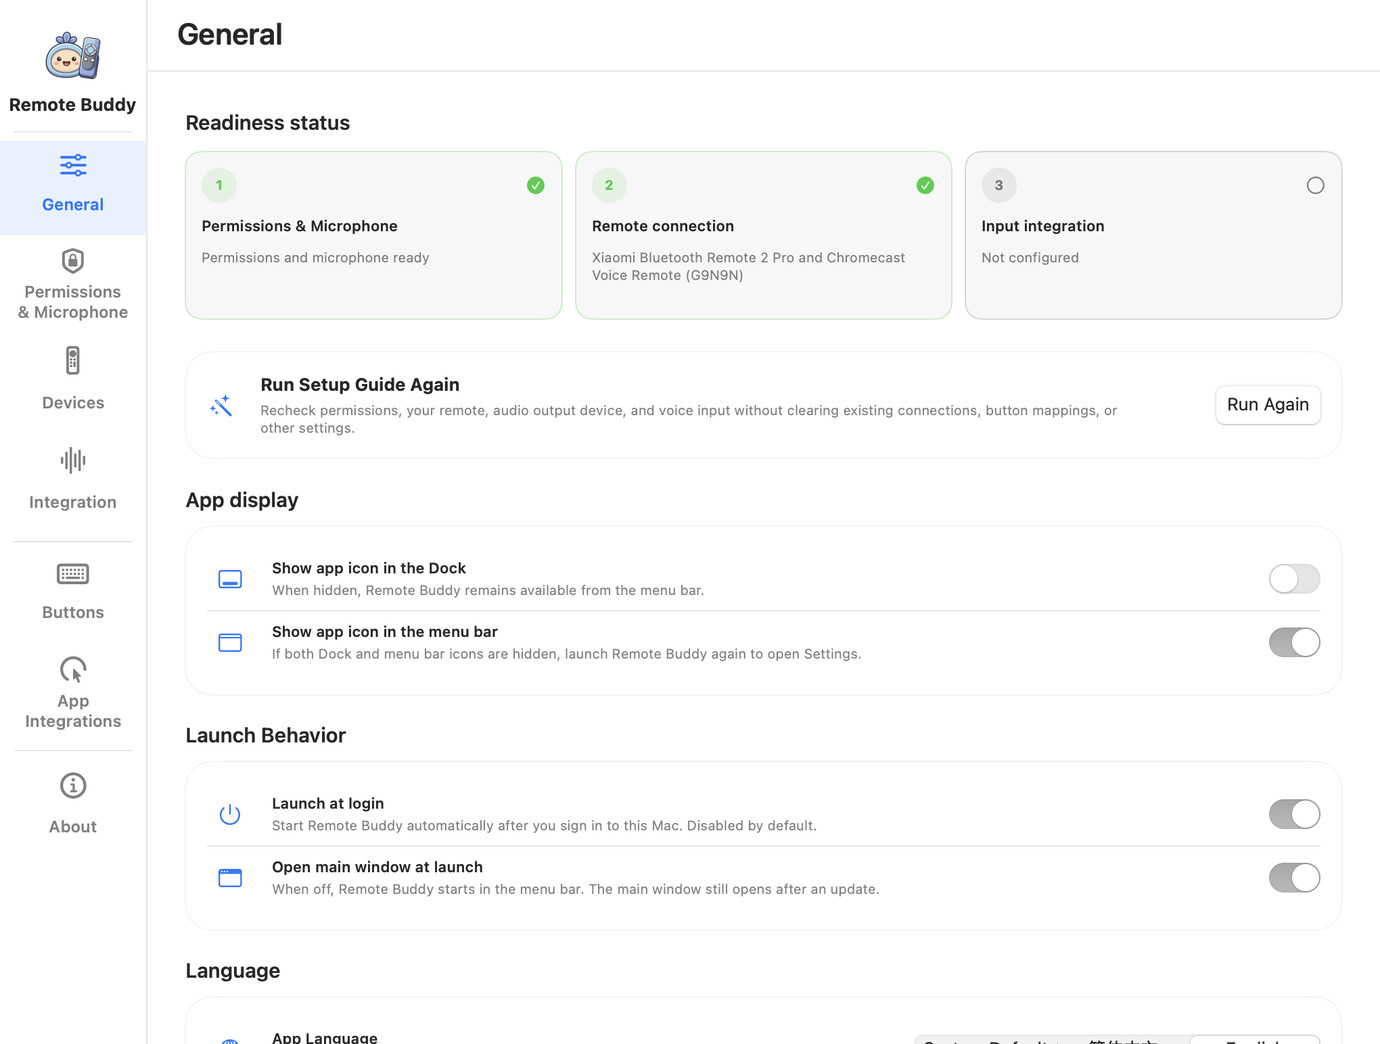
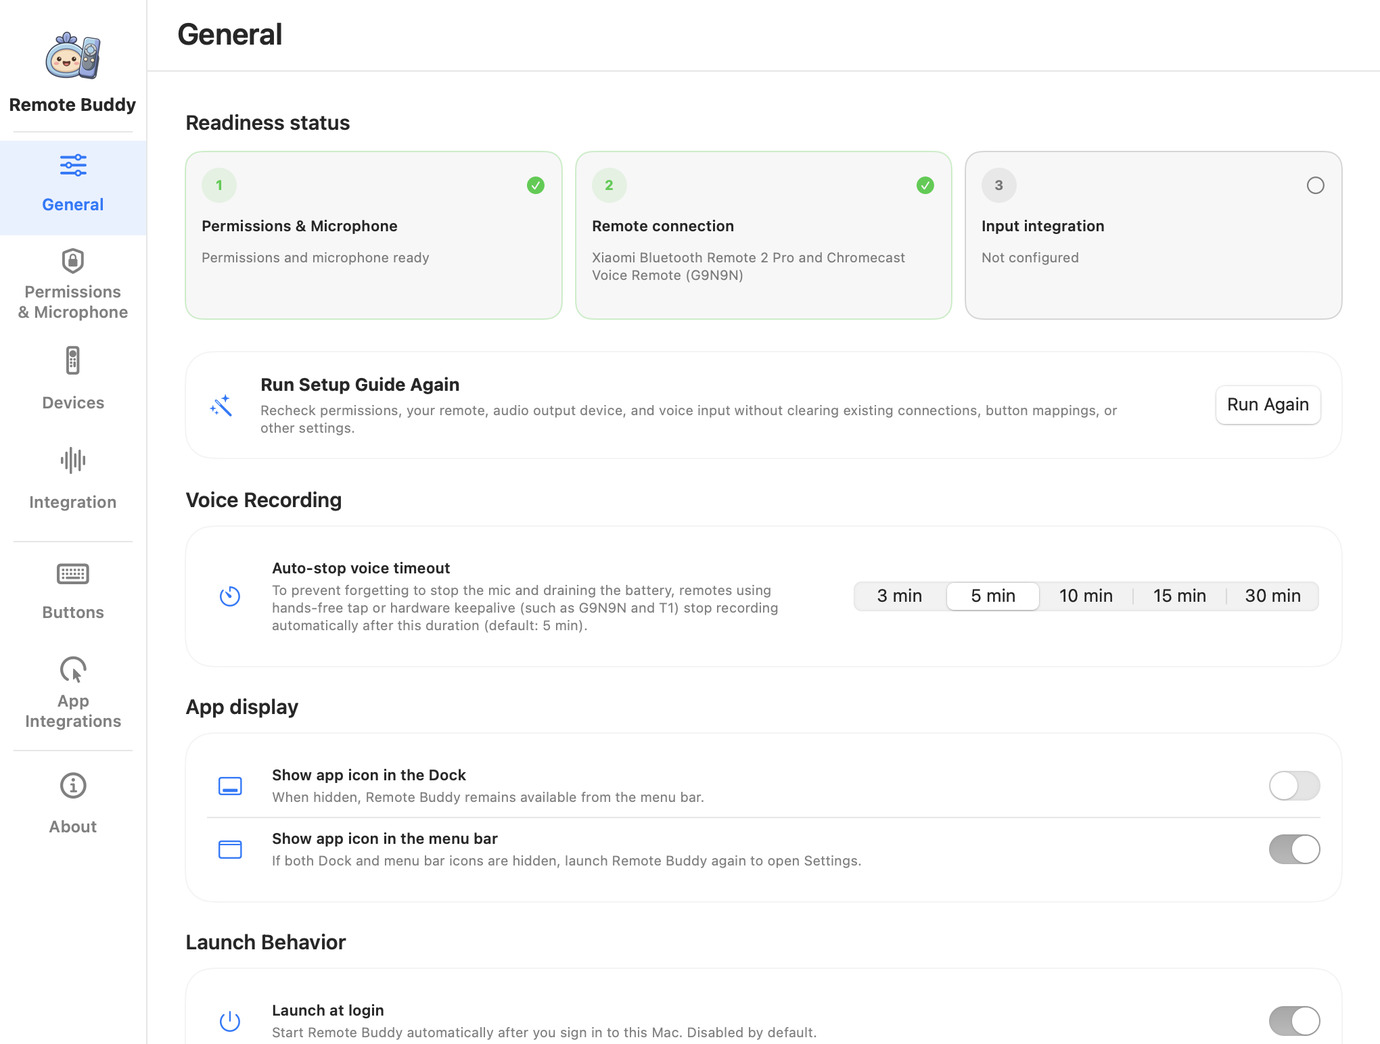
feat(settings): promote voice timeout to top of General and add 15m/30m options (#277)

diff --git a/pages/faq_en.html b/pages/faq_en.html
@@ -44,7 +44,7 @@
       <summary><span class="troubleshooting-question">Which remotes are currently supported by Remote Buddy?</span></summary>
       <div class="troubleshooting-body">
         <p>Remote Buddy is not a generic Bluetooth accessory wrapper; it implements specialized driver stacks for vendor-specific audio transfer protocols and HID input reports. Currently verified and supported models include:</p>
-        <p><strong>1. Google Chromecast Voice Remote (Model G9N9N): Fully Supported · Best Choice</strong><br>Features real-time voice decoding, automated keep-alive packets (auto-stopping after 5 minutes by default, configurable to 3 / 5 / 10 minutes in General settings), 14 fully customizable physical keys, and battery percentage reporting. <strong>Batch Compatibility:</strong> G9N9N units across market batches (such as <code>0x0110</code> / <code>26.2</code>, <code>0x011B</code>, and firmware <code>26.7</code> / <code>26.0</code>) differ in how macOS handles their short HID reports. Remote Buddy now supports all known batches on macOS through either <strong>Standard System HID (native, zero setup)</strong> or an optional <strong>Bluetooth Logging Profile (<code>.mobileconfig</code>)</strong>, unlocking both voice and all 14 buttons. See the <a class="text-link" href="g9n9n-compatibility_en.html">G9N9N Voice &amp; Key Compatibility Guide ↗</a> for details.</p>
+        <p><strong>1. Google Chromecast Voice Remote (Model G9N9N): Fully Supported · Best Choice</strong><br>Features real-time voice decoding, automated keep-alive packets (auto-stopping after 5 minutes by default, configurable to 3 / 5 / 10 / 15 / 30 minutes in General settings), 14 fully customizable physical keys, and battery percentage reporting. <strong>Batch Compatibility:</strong> G9N9N units across market batches (such as <code>0x0110</code> / <code>26.2</code>, <code>0x011B</code>, and firmware <code>26.7</code> / <code>26.0</code>) differ in how macOS handles their short HID reports. Remote Buddy now supports all known batches on macOS through either <strong>Standard System HID (native, zero setup)</strong> or an optional <strong>Bluetooth Logging Profile (<code>.mobileconfig</code>)</strong>, unlocking both voice and all 14 buttons. See the <a class="text-link" href="g9n9n-compatibility_en.html">G9N9N Voice &amp; Key Compatibility Guide ↗</a> for details.</p>
         <p><strong>2. Xiaomi Bluetooth Voice Remote 2 / 2 Pro (Models RC001 Battery / RC003 Rechargeable): Supported</strong><br>Standard Hold-to-Talk voice input (up to ~60s hardware limit) and customizable button mappings.</p>
         <p><strong>3. T1 Air Mouse Keyboard Voice Remote (T1-Remote): Supported</strong><br>Connects directly via Bluetooth (not 2.4G dongle). Features Hands-Free Toggle, 7 customizable front buttons, plus a ~45-key QWERTY keyboard and 6-axis air mouse on the back.</p>
         <p><strong>4. Planned for future updates:</strong> Google TV Streamer Voice Remote (GY3LE) and Apple Siri Remote (e.g. 3rd Gen A2854) are in active research and not yet production-ready.</p>
@@ -92,7 +92,7 @@
       <div class="troubleshooting-body">
         <p><strong>Firmware Mechanism:</strong> TV remotes manufactured for consumer set-top boxes are designed strictly for searching movies or issuing brief commands. To prevent battery drain when a button is accidentally compressed in couch cushions, the internal microcontroller firmware includes a hard-coded watchdog timer: <strong>audio streaming is forcibly terminated after approximately 60 seconds</strong>. Once this timeout triggers, the hardware stops transmitting packets regardless of host requests until the button is released and pressed again.</p>
         <p><strong>Why G9N9N and T1 do not have this 60s restriction:</strong></p>
-        <p>G9N9N and T1 support bidirectional Bluetooth handshakes. Remote Buddy implements an <strong>automated keep-alive packet scheduler</strong> that periodically transmits heartbeat signals to the remote during recording sessions. This prevents firmware sleep triggers while applying a configurable auto-stop cap (5 minutes by default, adjustable to 3 / 5 / 10 minutes in General settings) to avoid draining battery if left running—ideal for meetings, writing drafts, and lengthy transcriptions.</p>
+        <p>G9N9N and T1 support bidirectional Bluetooth handshakes. Remote Buddy implements an <strong>automated keep-alive packet scheduler</strong> that periodically transmits heartbeat signals to the remote during recording sessions. This prevents firmware sleep triggers while applying a configurable auto-stop cap (5 minutes by default, adjustable to 3 / 5 / 10 / 15 / 30 minutes in General settings) to avoid draining battery if left running—ideal for meetings, writing drafts, and lengthy transcriptions.</p>
       </div>
     </details>
   </section>

diff --git a/pages/faq.html b/pages/faq.html
@@ -44,7 +44,7 @@
       <summary><span class="troubleshooting-question">Remote Buddy 支持哪些遥控器？</span></summary>
       <div class="troubleshooting-body">
         <p>Remote Buddy 并非所有蓝牙遥控器都能通用，而是针对各厂商专有的蓝牙语音传输协议与 HID 报告格式做了深度驱动适配。目前支持情况如下：</p>
-        <p><strong>1. Google Chromecast Voice Remote（型号 G9N9N）：已全面支持 · 首选推荐</strong><br>支持实时语音解码、专属自动保活（默认 5 分钟自动停麦，可在「通用」中切换为 3 / 5 / 10 分钟）、14 颗物理按键全功能自定义与电池电量显示。<strong>硬件批次兼容说明：</strong>市面上 G9N9N 存在多种 HID / 固件批次（如 <code>0x0110</code> / <code>26.2</code>、<code>0x011B</code>、固件 <code>26.7</code> / <code>26.0</code>），部分批次的普通按键短报文会被 macOS 系统层丢弃。Remote Buddy 现已提供<strong>标准系统 HID（原生免配置）</strong>与可选<strong>蓝牙日志描述文件（<code>.mobileconfig</code>）</strong>两种接入途径，全部已知批次均可完整使用语音键与 14 颗普通按键。详见 <a class="text-link" href="g9n9n-compatibility.html">G9N9N 语音与按键兼容性指南 ↗</a>。</p>
+        <p><strong>1. Google Chromecast Voice Remote（型号 G9N9N）：已全面支持 · 首选推荐</strong><br>支持实时语音解码、专属自动保活（默认 5 分钟自动停麦，可在「通用」中切换为 3 / 5 / 10 / 15 / 30 分钟）、14 颗物理按键全功能自定义与电池电量显示。<strong>硬件批次兼容说明：</strong>市面上 G9N9N 存在多种 HID / 固件批次（如 <code>0x0110</code> / <code>26.2</code>、<code>0x011B</code>、固件 <code>26.7</code> / <code>26.0</code>），部分批次的普通按键短报文会被 macOS 系统层丢弃。Remote Buddy 现已提供<strong>标准系统 HID（原生免配置）</strong>与可选<strong>蓝牙日志描述文件（<code>.mobileconfig</code>）</strong>两种接入途径，全部已知批次均可完整使用语音键与 14 颗普通按键。详见 <a class="text-link" href="g9n9n-compatibility.html">G9N9N 语音与按键兼容性指南 ↗</a>。</p>
         <p><strong>2. 小米蓝牙遥控器 2 / 2 Pro（型号 RC001 电池版 / RC003 充电版）：已支持</strong><br>支持按住说话与 60 秒录音，支持全按键自定义。</p>
         <p><strong>3. T1 飞鼠键盘语音遥控器（T1-Remote）：已支持</strong><br>须通过蓝牙直连 Mac（非 2.4G 接收器）。支持点按免提、正面 7 颗常用键自定义，背面自带约 45 键迷你全键盘与空中飞鼠。</p>
         <p><strong>4. 计划支持中：</strong>Google TV Streamer Voice Remote（型号 GY3LE）、Apple Siri Remote（如第 3 代 A2854）等已列入跟进规划，暂未开放生产使用。</p>
@@ -92,7 +92,7 @@
       <div class="troubleshooting-body">
         <p><strong>底层原因分析：</strong>小米等电视盒子遥控器的硬件出厂固件原本是为家庭电视设计的。为了极致省电以及防止遥控器掉进沙发缝误压语音键导致电量耗尽，遥控器主控芯片内部硬编码了硬件看门狗定时器：一旦开启录音，<strong>单次音频传输达到约 60 秒时，硬件会自动强行切断蓝牙音频流</strong>。无论电脑端软件如何请求，硬件均不会再吐出音频数据，必须松开按键后重新按下才能开启下一段录音。</p>
         <p><strong>G9N9N 与 T1 为什么没有 60 秒断开限制？</strong></p>
-        <p>G9N9N 与 T1 支持全双工蓝牙双向通信与状态协商。Remote Buddy 为其专门设计了<strong>链路保活包与自动分段续流（Keep-Alive）调度引擎</strong>，在录音进行中定期主动向遥控器发送保活信号，从而彻底绕过了电视固件的超时熔断；同时为防止忘记结束说话一直耗电，默认会在约 5 分钟时自动停麦（可在「通用」设置中调整为 3 / 5 / 10 分钟），非常适合会议发言、长篇听写与深度写作。</p>
+        <p>G9N9N 与 T1 支持全双工蓝牙双向通信与状态协商。Remote Buddy 为其专门设计了<strong>链路保活包与自动分段续流（Keep-Alive）调度引擎</strong>，在录音进行中定期主动向遥控器发送保活信号，从而彻底绕过了电视固件的超时熔断；同时为防止忘记结束说话一直耗电，默认会在约 5 分钟时自动停麦（可在「通用」设置中调整为 3 / 5 / 10 / 15 / 30 分钟），非常适合会议发言、长篇听写与深度写作。</p>
       </div>
     </details>
   </section>

diff --git a/Sources/RemoteBuddy/Settings/SettingsView.Preferences.swift b/Sources/RemoteBuddy/Settings/SettingsView.Preferences.swift
@@ -41,6 +41,27 @@ extension SettingsView {
             .padding(.bottom, 16)
 
             VStack(alignment: .leading, spacing: 20) {
+                aboutSection(titleKey: "settings.general.voice_behavior") {
+                    preferenceRow(
+                        symbol: "timer",
+                        titleKey: "about.preferences.voice_auto_stop_duration",
+                        detailKey: "about.preferences.voice_auto_stop_duration_help"
+                    ) {
+                        Picker(
+                            localization.text("about.preferences.voice_auto_stop_duration"),
+                            selection: $settings.voiceAutoStopDuration
+                        ) {
+                            ForEach(VoiceAutoStopDuration.allCases) { duration in
+                                Text(localization.text(duration.titleKey)).tag(duration)
+                            }
+                        }
+                        .labelsHidden()
+                        .pickerStyle(.segmented)
+                        .frame(width: 345)
+                        .accessibilityIdentifier("general-voice-auto-stop-picker")
+                    }
+                }
+
                 aboutSection(titleKey: "settings.general.display_group") {
                     VStack(spacing: 0) {
                         preferenceRow(symbol: "dock.rectangle", titleKey: "about.preferences.show_dock_icon", detailKey: "about.preferences.show_dock_icon_help") {
@@ -120,27 +141,6 @@ extension SettingsView {
                         .labelsHidden()
                         .pickerStyle(.segmented)
                         .frame(width: 300)
-                    }
-                }
-
-                aboutSection(titleKey: "settings.general.voice_behavior") {
-                    preferenceRow(
-                        symbol: "timer",
-                        titleKey: "about.preferences.voice_auto_stop_duration",
-                        detailKey: "about.preferences.voice_auto_stop_duration_help"
-                    ) {
-                        Picker(
-                            localization.text("about.preferences.voice_auto_stop_duration"),
-                            selection: $settings.voiceAutoStopDuration
-                        ) {
-                            ForEach(VoiceAutoStopDuration.allCases) { duration in
-                                Text(localization.text(duration.titleKey)).tag(duration)
-                            }
-                        }
-                        .labelsHidden()
-                        .pickerStyle(.segmented)
-                        .frame(width: 300)
-                        .accessibilityIdentifier("general-voice-auto-stop-picker")
                     }
                 }
             }

diff --git a/pages/index.en.html b/pages/index.en.html
@@ -48,7 +48,7 @@
             <div class="window-dots"><i></i><i></i><i></i></div>
             <span class="window-title">General Settings · Remote Buddy</span>
           </div>
-          <img src="assets/screenshots/general-en.jpg?v=261126screens" alt="Remote Buddy General Settings interface: three status cards, setup wizard entry, and grouped preferences" width="1020" height="772" loading="eager">
+          <img src="assets/screenshots/general-en.jpg?v=261126gen" alt="Remote Buddy General Settings interface: three status cards, setup wizard entry, and grouped preferences" width="1020" height="772" loading="eager">
         </div>
       </div>
       <button class="stage-nav stage-next" type="button" aria-label="Next screenshot">›</button>
@@ -71,7 +71,7 @@
         <span class="lightbox-title" id="lightbox-title">Interface Preview</span>
         <button class="lightbox-close" type="button" aria-label="Close">✕</button>
       </div>
-      <img id="lightbox-img" src="assets/screenshots/general-en.jpg?v=261126screens" alt="High-resolution interface preview" width="1020" height="772">
+      <img id="lightbox-img" src="assets/screenshots/general-en.jpg?v=261126gen" alt="High-resolution interface preview" width="1020" height="772">
     </div>
   </dialog>
 </section>
@@ -111,6 +111,6 @@
 </section>
 </main>
 <footer class="wrap"><div><strong>Remote Buddy</strong><p>Voice input, at the press of a button.</p></div><div class="footer-links"><a href="downloads/index.en.html">Website Download</a><a href="device_en.html">Supported Remotes</a><a href="https://github.com/zfdang/remote-buddy/releases">macOS Releases</a><a href="https://github.com/zfdang/remote-buddy-windows">Windows Edition ↗</a><a href="https://github.com/zfdang/remote-buddy/blob/main/README.en.md">Docs &amp; References</a><a href="https://github.com/zfdang/remote-buddy/issues">Feedback</a><a href="https://github.com/zfdang/remote-buddy/blob/main/LICENSE">GPL-3.0-only</a></div></footer>
-<script src="demo.js?v=261126timeout"></script>
+<script src="demo.js?v=261126gen"></script>
 </body>
 </html>

diff --git a/pages/index.html b/pages/index.html
@@ -48,7 +48,7 @@
             <div class="window-dots"><i></i><i></i><i></i></div>
             <span class="window-title">通用设置 · Remote Buddy</span>
           </div>
-          <img src="assets/screenshots/general-zh.jpg?v=261126screens" alt="Remote Buddy 通用设置界面：三项状态概览、向导入口与分组偏好" width="1020" height="772" loading="eager">
+          <img src="assets/screenshots/general-zh.jpg?v=261126gen" alt="Remote Buddy 通用设置界面：三项状态概览、向导入口与分组偏好" width="1020" height="772" loading="eager">
         </div>
       </div>
       <button class="stage-nav stage-next" type="button" aria-label="下一张界面截图">›</button>
@@ -71,7 +71,7 @@
         <span class="lightbox-title" id="lightbox-title">界面预览</span>
         <button class="lightbox-close" type="button" aria-label="关闭">✕</button>
       </div>
-      <img id="lightbox-img" src="assets/screenshots/general-zh.jpg?v=261126screens" alt="界面大图预览" width="1020" height="772">
+      <img id="lightbox-img" src="assets/screenshots/general-zh.jpg?v=261126gen" alt="界面大图预览" width="1020" height="772">
     </div>
   </dialog>
 </section>
@@ -111,6 +111,6 @@
 </section>
 </main>
 <footer class="wrap"><div><strong>Remote Buddy</strong><p>用遥控器，随手说。</p></div><div class="footer-links"><a href="downloads/index.html">官网下载</a><a href="device.html">支持设备</a><a href="https://github.com/zfdang/remote-buddy/releases">macOS Releases</a><a href="https://github.com/zfdang/remote-buddy-windows">Windows 版 ↗</a><a href="https://github.com/zfdang/remote-buddy/blob/main/README.md">项目文档</a><a href="https://github.com/zfdang/remote-buddy/issues">反馈</a><a href="https://github.com/zfdang/remote-buddy/blob/main/LICENSE">GPL-3.0-only</a></div></footer>
-<script src="demo.js?v=261126timeout"></script>
+<script src="demo.js?v=261126gen"></script>
 </body>
 </html>

diff --git a/pages/demo.js b/pages/demo.js
@@ -38,7 +38,7 @@ button.addEventListener('blur', stop);
         title: '通用设置',
         badge: '偏好设置',
         windowTitle: '通用设置 · Remote Buddy',
-        src: 'assets/screenshots/general-zh.jpg?v=261126screens',
+        src: 'assets/screenshots/general-zh.jpg?v=261126gen',
         alt: 'Remote Buddy 通用设置界面：三项状态概览、向导入口与分组偏好',
         desc: '查看权限与麦克风、遥控器连接和输入法集成三项状态，点击卡片直达对应设置。下方可重新运行向导，或调整应用显示、启动行为和语言。'
       },
@@ -165,7 +165,7 @@ button.addEventListener('blur', stop);
         title: 'General Settings',
         badge: 'Preferences',
         windowTitle: 'General Settings · Remote Buddy',
-        src: 'assets/screenshots/general-en.jpg?v=261126screens',
+        src: 'assets/screenshots/general-en.jpg?v=261126gen',
         alt: 'Remote Buddy General Settings interface: three status cards, setup wizard entry, and grouped preferences',
         desc: 'Review permissions & microphone, connected remotes, and input integration in three status cards. Open settings from each card, restart setup, or adjust display, launch, and language preferences.'
       },

diff --git a/Tests/RemoteBuddyTests/ProductBoundaryTests.swift b/Tests/RemoteBuddyTests/ProductBoundaryTests.swift
@@ -184,6 +184,18 @@ struct ProductBoundaryTests {
         #expect(reloadedTen.voiceAutoStopDuration.timeInterval == 600)
         #expect(reloadedTen.voiceAutoStopDuration.maxKeepaliveExtensions == 60)
 
+        reloadedTen.voiceAutoStopDuration = .fifteenMinutes
+        let reloadedFifteen = AppSettings(defaults: defaults)
+        #expect(reloadedFifteen.voiceAutoStopDuration == .fifteenMinutes)
+        #expect(reloadedFifteen.voiceAutoStopDuration.timeInterval == 900)
+        #expect(reloadedFifteen.voiceAutoStopDuration.maxKeepaliveExtensions == 90)
+
+        reloadedFifteen.voiceAutoStopDuration = .thirtyMinutes
+        let reloadedThirty = AppSettings(defaults: defaults)
+        #expect(reloadedThirty.voiceAutoStopDuration == .thirtyMinutes)
+        #expect(reloadedThirty.voiceAutoStopDuration.timeInterval == 1800)
+        #expect(reloadedThirty.voiceAutoStopDuration.maxKeepaliveExtensions == 180)
+
         defaults.set(999, forKey: AppSettings.Keys.voiceAutoStopMinutes)
         let fallback = AppSettings(defaults: defaults)
         #expect(fallback.voiceAutoStopDuration == .fiveMinutes)

diff --git a/Tests/RemoteBuddyTests/T1RemoteProtocolTests.swift b/Tests/RemoteBuddyTests/T1RemoteProtocolTests.swift
@@ -857,16 +857,16 @@ struct T1RemoteProtocolTests {
         bridge.simulateControlPacketForTesting(Data([0x00]))
         await flushAudio()
 
-        // 10-minute setting extends up to 60 MIC_EXTEND packets before MIC_CLOSE at 610s.
+        // 30-minute setting extends up to 180 MIC_EXTEND packets before MIC_CLOSE at 1810s.
         writtenCommands.removeAll()
-        settings.voiceAutoStopDuration = .tenMinutes
+        settings.voiceAutoStopDuration = .thirtyMinutes
         clock.advance(to: clock.now + 1_000)
         bridge.simulateControlPacketForTesting(Data([0x04, 0x03, 0x02, 0x02]))
         await flushAudio()
         let secondStart = clock.now
-        clock.advance(to: secondStart + 610_000)
+        clock.advance(to: secondStart + 1_810_000)
         await flushAudio()
-        #expect(writtenCommands.filter { $0 == Data([0x0E, 0x02]) }.count == 60)
+        #expect(writtenCommands.filter { $0 == Data([0x0E, 0x02]) }.count == 180)
         #expect(writtenCommands.filter { $0 == Data([0x0D, 0x02]) }.count == 1)
     }
 

diff --git a/Sources/RemoteBuddy/Settings/AppSettings.swift b/Sources/RemoteBuddy/Settings/AppSettings.swift
@@ -7,6 +7,8 @@ enum VoiceAutoStopDuration: Int, CaseIterable, Codable, Identifiable {
     case threeMinutes = 3
     case fiveMinutes = 5
     case tenMinutes = 10
+    case fifteenMinutes = 15
+    case thirtyMinutes = 30
 
     static let keepaliveIntervalSeconds = 10
 
@@ -26,6 +28,10 @@ enum VoiceAutoStopDuration: Int, CaseIterable, Codable, Identifiable {
             return "about.preferences.voice_auto_stop_duration.5m"
         case .tenMinutes:
             return "about.preferences.voice_auto_stop_duration.10m"
+        case .fifteenMinutes:
+            return "about.preferences.voice_auto_stop_duration.15m"
+        case .thirtyMinutes:
+            return "about.preferences.voice_auto_stop_duration.30m"
         }
     }
 }
